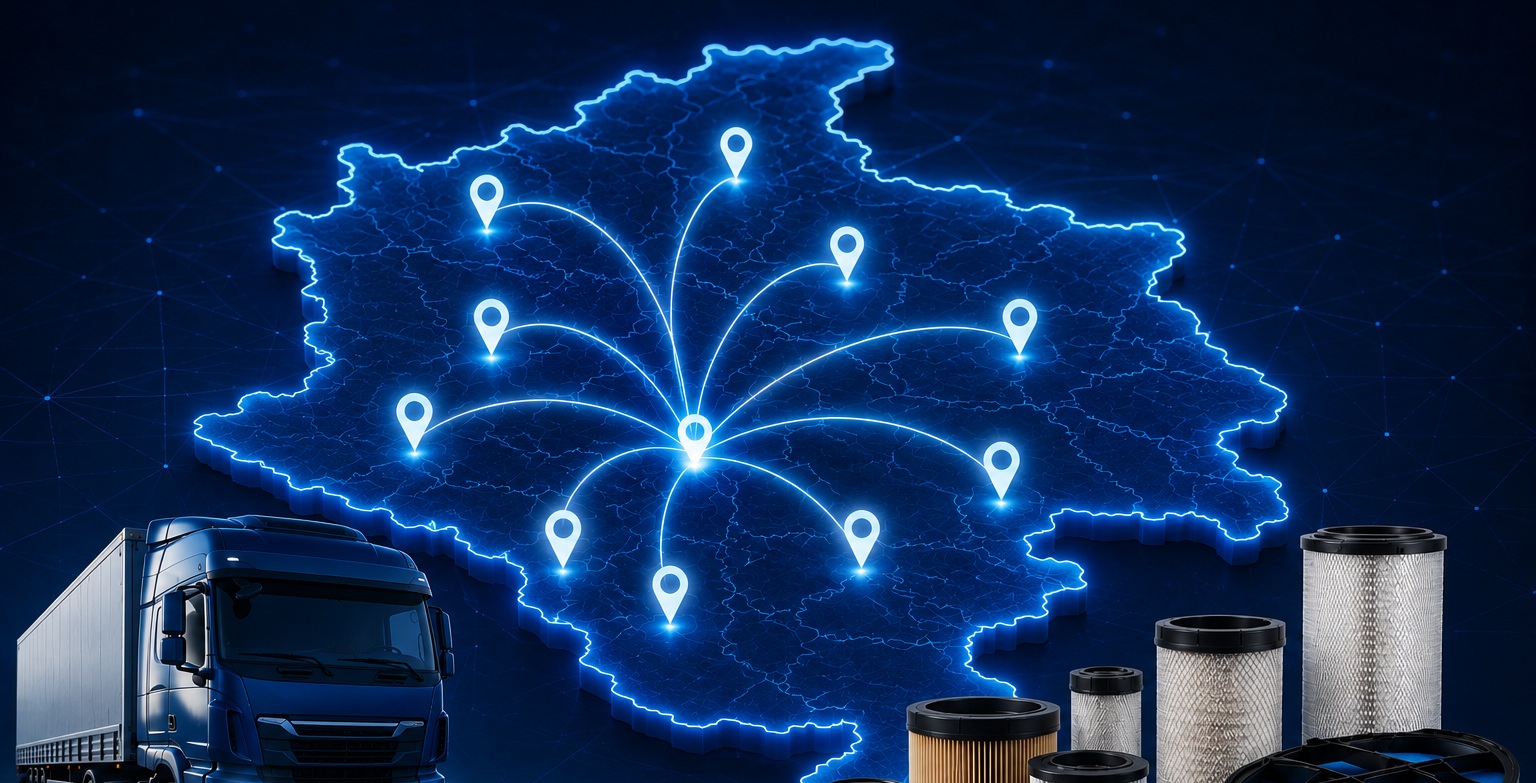
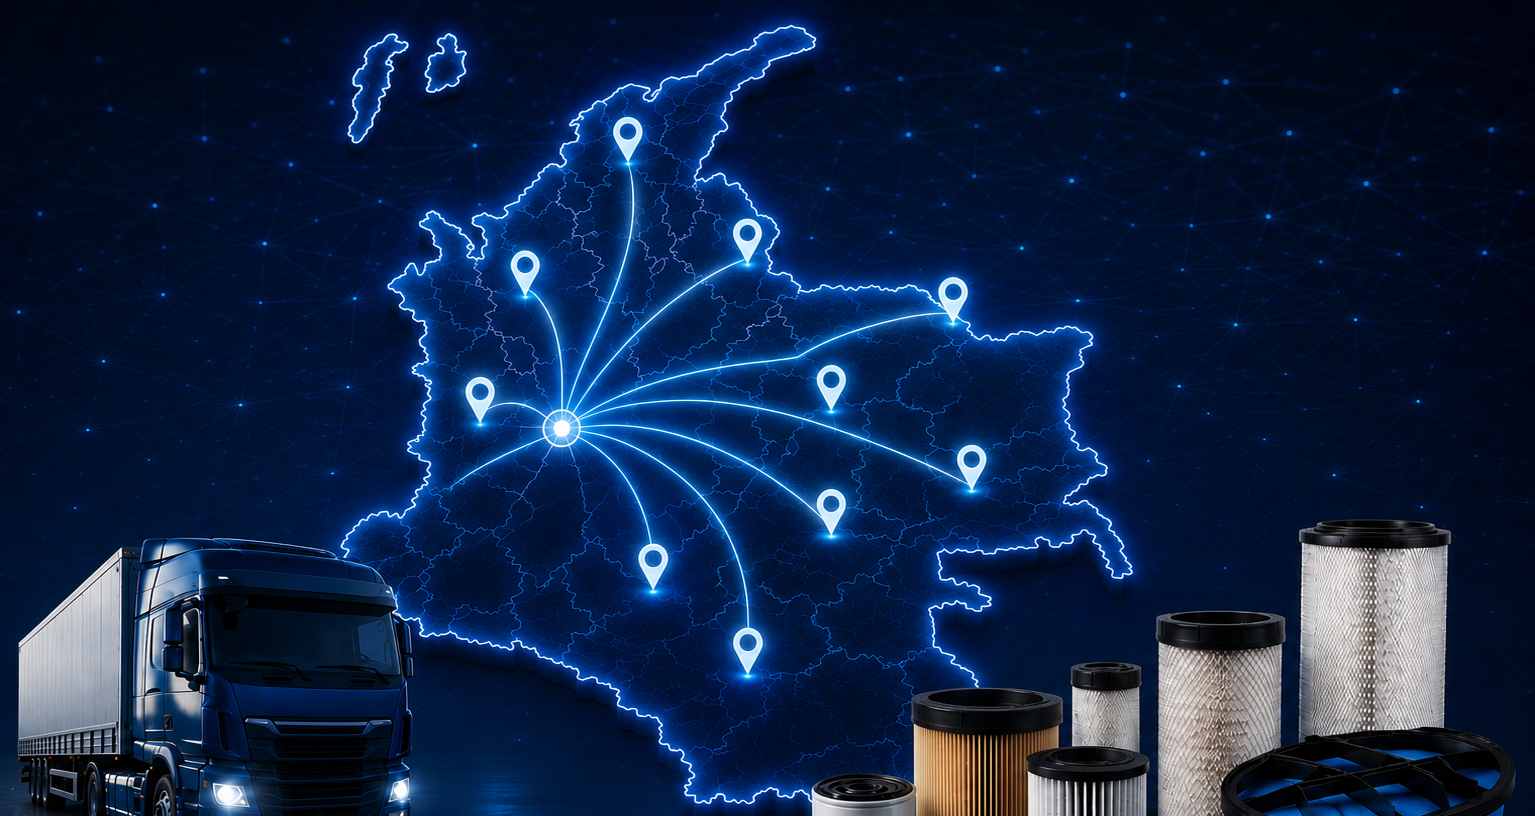
configuracion formulario pqr

diff --git a/assets/js/bundle.js b/assets/js/bundle.js
@@ -520,6 +520,7 @@
     if (!form) return;
 
     const successEl  = document.getElementById('pqr-success');
+    const errorEl    = document.getElementById('pqr-error');
     const radicadoEl = document.getElementById('pqr-radicado');
     const requiredFields = form.querySelectorAll('[required]');
 
@@ -556,17 +557,32 @@
       }
 
       const submitBtn = form.querySelector('[type="submit"]');
+      const submitBtnLabel = submitBtn.textContent;
       submitBtn.disabled = true;
       submitBtn.textContent = 'Enviando…';
+      if (errorEl) errorEl.hidden = true;
 
-      /* Simulate async dispatch — replace with real fetch() in WordPress */
-      setTimeout(() => {
-        const radicado = 'GOBY-' + new Date().getFullYear() + '-' + String(Date.now()).slice(-6);
-        if (radicadoEl) radicadoEl.textContent = radicado;
-        form.hidden = true;
-        if (successEl) successEl.hidden = false;
-        successEl?.focus();
-      }, 1200);
+      fetch('pqr-handler.php', {
+        method: 'POST',
+        body: new FormData(form),
+      })
+        .then((res) => res.json())
+        .then((data) => {
+          if (!data.success) throw new Error(data.message || 'Error al enviar.');
+
+          if (radicadoEl) radicadoEl.textContent = data.radicado || '';
+          form.hidden = true;
+          if (successEl) successEl.hidden = false;
+          successEl?.focus();
+        })
+        .catch(() => {
+          if (errorEl) {
+            errorEl.hidden = false;
+            errorEl.focus();
+          }
+          submitBtn.disabled = false;
+          submitBtn.textContent = submitBtnLabel;
+        });
     });
   }
 

diff --git a/avisos-legales.html b/avisos-legales.html
@@ -1398,9 +1398,14 @@
                   </button>
                 </div>
 
-                <div class="form-success" id="pqr-success" role="status" aria-live="polite" hidden>
+                <div class="form-success" id="pqr-success" role="status" aria-live="polite" tabindex="-1" hidden>
                   <svg viewBox="0 0 24 24" aria-hidden="true"><path d="M9 12l2 2 4-4m6 2a9 9 0 11-18 0 9 9 0 0118 0z"/></svg>
                   <strong>¡Solicitud enviada con éxito!</strong> Recibirá acuse de recibo en su correo electrónico dentro de los próximos 2 días hábiles. Número de radicado: <span id="pqr-radicado"></span>
+                </div>
+
+                <div class="form-success form-success--error" id="pqr-error" role="alert" aria-live="assertive" tabindex="-1" hidden>
+                  <svg viewBox="0 0 24 24" aria-hidden="true"><path d="M12 8v4m0 4h.01M21 12a9 9 0 11-18 0 9 9 0 0118 0z"/></svg>
+                  <strong>No se pudo enviar la solicitud.</strong> Intente nuevamente o escríbanos directamente a <a href="mailto:info@gobyfilters.com">info@gobyfilters.com</a>.
                 </div>
 
               </form>

diff --git a/assets/css/sections.css b/assets/css/sections.css
@@ -498,6 +498,15 @@
   margin-top: 1px;
 }
 
+.form-success--error {
+  background-color: rgba(220, 53, 69, 0.08);
+  border-color: rgba(220, 53, 69, 0.3);
+}
+
+.form-success--error svg {
+  stroke: var(--color-error);
+}
+
 /* Checkbox y radio */
 .form-check {
   display: flex;

diff --git a/pqr-handler.php b/pqr-handler.php
@@ -1,0 +1,85 @@
+<?php
+/**
+ * Recibe el formulario PQR (avisos-legales.html) y envía la notificación
+ * por correo a info@gobyfilters.com usando la función mail() nativa de PHP.
+ *
+ * Requiere que la cuenta info@gobyfilters.com exista en hPanel (Correos)
+ * para que el hosting acepte enviar con ese remitente.
+ */
+
+header('Content-Type: application/json; charset=utf-8');
+
+$destino = 'info@gobyfilters.com';
+
+function respond(bool $success, string $message, array $extra = []): void {
+    http_response_code($success ? 200 : 400);
+    echo json_encode(array_merge(['success' => $success, 'message' => $message], $extra));
+    exit;
+}
+
+if ($_SERVER['REQUEST_METHOD'] !== 'POST') {
+    http_response_code(405);
+    respond(false, 'Método no permitido.');
+}
+
+function campo(string $nombre): string {
+    return isset($_POST[$nombre]) ? trim((string) $_POST[$nombre]) : '';
+}
+
+$nombre   = campo('nombre');
+$empresa  = campo('empresa');
+$email    = campo('email');
+$telefono = campo('telefono');
+$tipo     = campo('tipo');
+$asunto   = campo('asunto');
+$autoriza = campo('autoriza_datos');
+
+$tiposValidos = ['peticion', 'queja', 'reclamo', 'sugerencia'];
+
+if ($nombre === '' || mb_strlen($nombre) > 150) {
+    respond(false, 'El nombre es obligatorio.');
+}
+if (!filter_var($email, FILTER_VALIDATE_EMAIL)) {
+    respond(false, 'El correo electrónico no es válido.');
+}
+if (!in_array($tipo, $tiposValidos, true)) {
+    respond(false, 'El tipo de solicitud no es válido.');
+}
+if (mb_strlen($asunto) < 30) {
+    respond(false, 'La descripción debe tener al menos 30 caracteres.');
+}
+if ($autoriza === '') {
+    respond(false, 'Debe autorizar el tratamiento de datos.');
+}
+
+$tiposLabel = [
+    'peticion'   => 'Petición',
+    'queja'      => 'Queja',
+    'reclamo'    => 'Reclamo',
+    'sugerencia' => 'Sugerencia',
+];
+
+$radicado = 'GOBY-' . date('Y') . '-' . str_pad((string) random_int(0, 999999), 6, '0', STR_PAD_LEFT);
+
+$asunto_correo = "Nueva PQR ({$tiposLabel[$tipo]}) — Radicado {$radicado}";
+
+$cuerpo  = "Se ha recibido una nueva solicitud a través del formulario PQR del sitio web.\n\n";
+$cuerpo .= "Radicado: {$radicado}\n";
+$cuerpo .= "Tipo: {$tiposLabel[$tipo]}\n";
+$cuerpo .= "Nombre: {$nombre}\n";
+$cuerpo .= "Empresa: " . ($empresa !== '' ? $empresa : '—') . "\n";
+$cuerpo .= "Correo: {$email}\n";
+$cuerpo .= "Teléfono: " . ($telefono !== '' ? $telefono : '—') . "\n\n";
+$cuerpo .= "Descripción:\n{$asunto}\n";
+
+$headers  = "From: GOBY Filters Web <info@gobyfilters.com>\r\n";
+$headers .= "Reply-To: {$email}\r\n";
+$headers .= "Content-Type: text/plain; charset=UTF-8\r\n";
+
+$enviado = mail($destino, $asunto_correo, $cuerpo, $headers);
+
+if (!$enviado) {
+    respond(false, 'No se pudo enviar el correo. Intente nuevamente más tarde.');
+}
+
+respond(true, 'Solicitud enviada correctamente.', ['radicado' => $radicado]);
